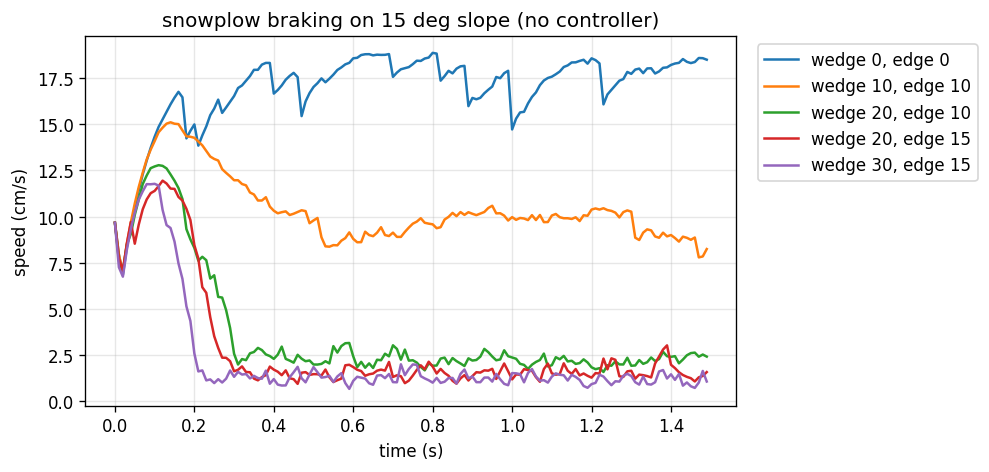
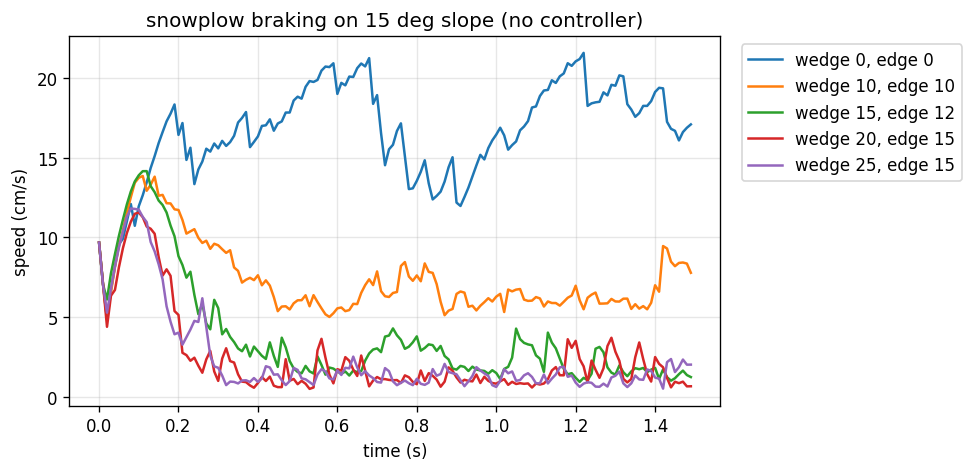
판 0.81cm로 연장(구간별 굽힘 묶기), 평평한 판 기본 횡그립, 1단계 방향 벌점, 플루크 보겐 물리 검사
- ski_plate: OVERHANG_SCALE 3.5(0.43 -> 0.81cm), 조각 길이 ~0.062cm 유지(15조각).
  굽힘/비틀림을 발 구간/팁 돌출부/테일 돌출부로 나눠 묶음
- 길이 스윕: 쐐기 15도 제동 4.8 -> 1.5cm/s, 좌우 판 팁은 20도부터 닿음
- edge_grip: 평평해도 그립 25%(FLAT_GRIP_FRACTION). 없으면 긴 판이 0.4초에 70도 넘게
  돌았다. APPLY_TO 옵션(판 조각은 하중 이동은 크지만 궤적이 혼돈적이라 몸통 유지)
- ski_stance: 판 평행이동(무게중심 이동) IK
- pflugbogen_test: 쐐기 + 무게중심 좌우 이동 -> 옆 이동으로 턴 방향 판정
- rl_task SpeedControlEnv: 몸 요각 벌점, 70도 넘으면 종료(가로 서기 금지)
- play: 쐐기 표 최대 20도

diff --git a/flyski_sim/ski_plate.py b/flyski_sim/ski_plate.py
@@ -28,7 +28,12 @@ from flyski_sim.ski_profiles import SkiProfile
 from flyski_sim.ski_stance import compute_ski_stance
 
 SIDES = ('left', 'right')
-N_SEGMENTS = 7            # 홀수 — 가운데 조각이 root.
+N_SEGMENTS = None         # None이면 조각 길이 ~_SEG_LEN_CM이 되게 홀수 개(가운데 조각이 root).
+_SEG_LEN_CM = 0.062
+# 판 길이 = T1~T3 발끝 거리 + OVERHANG_SCALE x 프로파일 길이. T1/T2/T3 세 점이 판을 잡아
+# 휨을 다리가 정하므로(스케이트에 가까움, RESEARCH_NOTES 38번) 발 밖으로 나온 팁/테일이
+# 자유롭게 휘도록 길게 한다. 쐐기에서 좌우 판 팁이 닿지 않는 범위에서 고름.
+OVERHANG_SCALE = 3.5         # 판 0.43 -> 0.81cm(all_mountain). 길이 스윕은 38번.
 HALF_THICKNESS_CM = 0.004
 BINDING_HEIGHT_CM = 0.01
 _THETA_MAX_EXTRA_DEG = 8.0  # stiffness=0일 때 추가로 허용하는 휨각.
@@ -107,7 +112,7 @@ def plate_sidecut_radius_cm(profile: SkiProfile, length_cm: float) -> float:
 
 
 def attach_side_plates(walker, profile: SkiProfile,
-                       n_segments: int = N_SEGMENTS) -> dict[str, SkiUnit]:
+                       n_segments: int | None = N_SEGMENTS) -> dict[str, SkiUnit]:
     """walker의 좌/우 다리 3개씩에 휘는 스키 플레이트를 하나씩 붙인다."""
     info, R_th, x_th, weight = _rest_pose_info(walker, compute_ski_stance(walker))
     model = walker.mjcf_model
@@ -132,7 +137,9 @@ def attach_side_plates(walker, profile: SkiProfile,
         center_th = np.array([mid[0], mid[1],
                               tip_z - BINDING_HEIGHT_CM - HALF_THICKNESS_CM])
 
-        length = span + profile.length_cm
+        length = span + OVERHANG_SCALE * profile.length_cm
+        if n_segments is None:
+            n_segments = 2 * max(int(round(length / _SEG_LEN_CM / 2)), 1) + 1
         seg_len = length / n_segments
         m = n_segments // 2
         half_w_load = 0.5 * weight                           # 판 하나가 받는 하중.
@@ -235,20 +242,28 @@ def attach_side_plates(walker, profile: SkiProfile,
                 parent = body
 
         # 볼록성: 힌지가 제각각 꺾이면 판이 지그재그(비볼록)가 됐다(평지/플루크/엣징 모두
-        # 스텝의 99~100%, RESEARCH_NOTES 37번). 절반씩 묶어도 플루크에선 T1/T3 발이 팁과
-        # 테일을 서로 반대로 밀어 S자가 됐다. 그래서 판 전체 굽힘/비틀림을 한 값으로 묶어
-        # 곡률(비틀림률)이 일정한 판이 되게 한다. 테일 쪽 힌지는 부모가 +x 쪽이라 같은
-        # 모양에서 각의 부호가 팁 쪽과 반대이고, 캠버 springref도 +/-로 대칭이다.
+        # 스텝의 99~100%, RESEARCH_NOTES 37번). 구간마다 굽힘/비틀림 힌지를 한 값으로
+        # 묶어 구간 안에서는 곡률(비틀림률)이 일정하게 한다.
+        # - 발 구간(T3~T1 발 사이): 한 값. 절반씩 따로 두면 플루크에서 T1/T3가 팁과 테일을
+        #   반대로 밀어 S자가 됐다. 테일 쪽 힌지는 부모가 +x 쪽이라 같은 모양에서 각의
+        #   부호가 팁 쪽과 반대(캠버 springref도 +/- 대칭).
+        # - 팁 돌출부, 테일 돌출부(발 밖): 각각 따로 한 값. 발이 잡지 않는 부분이라 설면
+        #   하중으로 자유롭게 휜다(38번).
+        # 판 구속이 부드러우면(solref 0.002) 판 힌지 관성이 작아 크게 어긋나서 하드하게.
+        foot_step = max(int(round(abs(float((t1['tip_th'] - t2['tip_th']) @ ex)) / seg_len)), 1)
+        hard = dict(solref=(0.0004, 1.), solimp=(0.99, 0.999, 0.001, 0.5, 2.))
         for kind in (('bend', 'twist') if COUPLE_BENDING else ()):
-            leader = chain[(kind, +1)][0]
-            for direction in (+1, -1):
-                for follower in chain[(kind, direction)]:
-                    if follower is leader:
-                        continue
+            groups = [[(j, d) for d in (+1, -1) for j in chain[(kind, d)][:foot_step]]]
+            for d in (+1, -1):
+                over = chain[(kind, d)][foot_step:]
+                if over:
+                    groups.append([(j, +1) for j in over])     # 같은 방향끼리라 부호 같음.
+            for group in groups:
+                leader, lead_sign = group[0]
+                for follower, sign in group[1:]:
                     model.equality.add('joint', name=f'ski_{kind}_couple_{follower.name}',
                                        joint1=follower, joint2=leader,
-                                       polycoef=(0., float(direction), 0., 0., 0.),
-                                       solref=(0.0004, 1.), solimp=(0.99, 0.999, 0.001, 0.5, 2.))
+                                       polycoef=(0., float(sign * lead_sign), 0., 0., 0.), **hard)
 
         def add_binding_post(leg, idx, tip_plate):
             """시각 전용(충돌 없음) 바인딩 기둥: 판 중심선 윗면 -> 발끝. 구속 자체는

diff --git a/flyski_sim/pflugbogen_test.py b/flyski_sim/pflugbogen_test.py
@@ -1,0 +1,79 @@
+# 쐐기 자세에서 무게중심을 한쪽 판으로 옮기면 반대쪽으로 도는지(플루크 보겐) 측정하는 물리 검사
+"""플루크 보겐 물리 검사(RESEARCH_NOTES 38번).
+
+쐐기(snowplow_pose) + 몸을 좌/우로 옮긴 자세를 고정 액션으로 걸고 15° 사면에서 요
+변화를 잰다. 왼쪽 턴은 바깥(오른쪽) 스키에 하중 = 몸을 오른쪽(-y)으로. 컨트롤러 없음.
+모델에 좌향 드리프트가 있어서(38번) 이동 0과의 차이로 판정한다.
+
+    python -m flyski_sim.pflugbogen_test
+"""
+from __future__ import annotations
+
+import mujoco
+import numpy as np
+
+from flyski_sim import snowplow_test
+from flyski_sim.ski_stance import snowplow_pose
+
+WEDGE, EDGE = 15., 12.
+
+
+def run(com_y_cm, seconds=2.0, ramp=0.2):
+    env, task = snowplow_test.build()
+    env.reset()
+    p = env.physics
+    names = env.action_spec().name.split('\t')
+    pose, err = snowplow_pose(task.walker, WEDGE, EDGE, (0., com_y_cm, 0.))
+    off = np.array([pose[n] - task._stance[n] if n in pose else 0. for n in names])
+    th = p.model.name2id('walker/thorax', 'body')
+    ski_side = {p.model.name2id(g.full_identifier, 'geom'): s
+                for s, u in task.skis.items() for g in u.geoms}
+    f6 = np.zeros(6)
+    yaws, share, ys = [], [], []
+    dt = env.control_timestep()
+    for k in range(int(seconds / dt)):
+        env.step(off * min(k * dt / ramp, 1.))
+        R = p.data.xmat[th].reshape(3, 3)
+        yaws.append(np.arctan2(R[1, 0], R[0, 0]))
+        ys.append(float(p.data.xpos[th][1]))
+        if k * dt > ramp:
+            # 판별 하중 = 그 판 조각들이 설면에서 받는 수직력 합(발톱은 판과 등식 구속이라
+            # cfrc_ext로는 판 하중을 못 잰다).
+            f = {'left': 0., 'right': 0.}
+            for i in range(p.data.ncon):
+                c = p.data.contact[i]
+                g = c.geom1 if c.geom1 in ski_side else c.geom2 if c.geom2 in ski_side else None
+                if g is None:
+                    continue
+                mujoco.mj_contactForce(p.model.ptr, p.data.ptr, i, f6)
+                f[ski_side[g]] += max(f6[0], 0.)
+            if f['left'] + f['right'] > 0:
+                share.append(f['right'] / (f['left'] + f['right']))
+    yaws = np.degrees(np.unwrap(yaws))
+    v = p.data.qvel[:2]
+    return dict(com_y_cm=com_y_cm, ik_tip_err_max=round(max(v for k, v in err.items() if not k.endswith('ori')), 4),
+                yaw_change_deg=round(float(yaws[-1] - yaws[int(ramp / dt)]), 1),
+                lateral_cm=round(ys[-1] - ys[int(ramp / dt)], 2),          # + = 왼쪽으로 이동.
+                vel_heading_deg=round(float(np.degrees(np.arctan2(v[1], v[0]))), 1),
+                right_ski_load=round(float(np.mean(share)), 2),
+                speed_end=round(float(np.linalg.norm(p.data.qvel[:2])), 1),
+                upright=bool(p.data.xmat[th].reshape(3, 3)[2, 2] > 0.5))
+
+
+def main():
+    rows = [run(y) for y in (0., -0.02, -0.04, 0.02, 0.04)]
+    for r in rows:
+        print(r, flush=True)
+    # 판정은 몸 방향(요)이 아니라 실제 경로(옆 이동)로. 한쪽 판에 하중이 실리면 그 판의
+    # 그립이 경로를 판이 향한 쪽으로 휘게 하는 동시에 그쪽을 브레이크처럼 잡아 몸을 반대로
+    # 돌리는 모멘트도 만들어서, 요만 보면 판정이 뒤집힐 수 있다.
+    base = rows[0]['lateral_cm']
+    left = [round(r['lateral_cm'] - base, 2) for r in rows if r['com_y_cm'] < 0]   # 몸 오른쪽 -> 왼쪽(+).
+    right = [round(r['lateral_cm'] - base, 2) for r in rows if r['com_y_cm'] > 0]
+    ok = all(v > 0.3 for v in left) and all(v < -0.3 for v in right)
+    print(f'이동 0 대비 옆 이동(cm): 몸 오른쪽 {left}, 몸 왼쪽 {right} -> 바깥 스키 하중으로 반대쪽 턴? {ok}')
+    return ok
+
+
+if __name__ == '__main__':
+    raise SystemExit(0 if main() else 1)

diff --git a/flyski_sim/ski_stance.py b/flyski_sim/ski_stance.py
@@ -102,13 +102,16 @@ def _rot(axis: str, angle: float) -> np.ndarray:
 
 
 def solve_plate_pose(walker, yaw_deg: dict[str, float], roll_deg: dict[str, float],
-                     ori_weight: float = 0.05) -> tuple[dict[str, float], dict[str, float]]:
+                     ori_weight: float = 0.05, shift_cm: dict[str, np.ndarray] | None = None
+                     ) -> tuple[dict[str, float], dict[str, float]]:
     """스탠스에서 판을 T2 발끝 기준으로 요(수직축)/롤(판 축)만큼 돌린 다리 자세를 IK로 구한다.
 
     yaw_deg/roll_deg: {'left': 각, 'right': 각}. 요 +는 반시계(팁이 왼쪽으로), 롤 +는
     오른쪽 엣지가 내려감. 플루크(쐐기)는 left 요 -, right 요 +(팁을 모음), left 롤 +,
     right 롤 -(안쪽 엣지). T1/T3는 발끝 위치만, T2는 발끝 위치 + 발(부츠) 방향까지
     맞춘다(부츠 요/롤 힌지가 단단해서 T2 발이 판과 같이 안 돌면 스프링과 싸움).
+    shift_cm: {'left': (dx, dy, dz)} thorax 좌표계에서 판(세 발끝)을 평행이동. 판을 -d로
+    옮기면 몸(무게중심)이 판 위에서 +d로 옮겨 간 것과 같다(하중 이동, 38번).
     반환: ({관절: 각}, {다리: 발끝 위치 오차 cm, T2는 방향 오차 rad도 'T2_side_ori'}).
     """
     physics = mjcf.Physics.from_mjcf_model(walker.mjcf_model)
@@ -127,12 +130,13 @@ def solve_plate_pose(walker, yaw_deg: dict[str, float], roll_deg: dict[str, floa
     for side in SIDES:
         R_delta = _rot('z', np.deg2rad(yaw_deg[side])) @ _rot('x', np.deg2rad(roll_deg[side]))
         pivot = tips0[f'T2_{side}']
+        shift = np.asarray((shift_cm or {}).get(side, (0., 0., 0.)), dtype=float)
         for leg in LEGS:
             names = [f'{j}_{leg}_{side}' for j in _MAIN_JOINTS]
             jids = [physics.model.name2id(n, 'joint') for n in names]
             qadr = physics.model.jnt_qposadr[jids]
             lo, hi = physics.model.jnt_range[jids].T
-            target = pivot + R_delta @ (tips0[f'{leg}_{side}'] - pivot)
+            target = pivot + shift + R_delta @ (tips0[f'{leg}_{side}'] - pivot)
             bid = physics.model.name2id(f'claw_{leg}_{side}', 'body')
             R_goal = R_delta @ claw_R0[side] if leg == 'T2' else None
 
@@ -160,7 +164,14 @@ def solve_plate_pose(walker, yaw_deg: dict[str, float], roll_deg: dict[str, floa
     return pose, errors
 
 
-def snowplow_pose(walker, wedge_deg: float, edge_deg: float):
-    """플루크(쐐기): 팁을 모으고(각 판 wedge_deg) 안쪽 엣지를 edge_deg만큼 세운 자세."""
+def snowplow_pose(walker, wedge_deg: float, edge_deg: float,
+                  com_shift_cm: tuple[float, float, float] = (0., 0., 0.)):
+    """플루크(쐐기): 팁을 모으고(각 판 wedge_deg) 안쪽 엣지를 edge_deg만큼 세운 자세.
+
+    com_shift_cm: 몸(무게중심)을 판 위에서 옮길 양(thorax 좌표, +y = 왼쪽). 플루크 보겐은
+    바깥 스키 쪽으로 옮긴다(왼쪽 턴 = 오른쪽 스키 쪽 = -y).
+    """
+    shift = -np.asarray(com_shift_cm, dtype=float)
     return solve_plate_pose(walker, {'left': -wedge_deg, 'right': wedge_deg},
-                            {'left': edge_deg, 'right': -edge_deg})
+                            {'left': edge_deg, 'right': -edge_deg},
+                            shift_cm={'left': shift, 'right': shift})

diff --git a/flyski_sim/edge_grip.py b/flyski_sim/edge_grip.py
@@ -37,6 +37,14 @@ PHI1 = np.deg2rad(20.)   # 이 이상이면 그립 최대.
 V0 = 2.0                 # cm/s, 정지마찰을 부드럽게 근사하는 속도 스케일. 0.5면 과도응답이 커서
                          # 예측보다 2~4배 급하게 돌았다(RESEARCH_NOTES 35번).
 N_CAP_BODYWEIGHTS = 2.   # 접촉 하나의 수직력 상한(몸무게 배수).
+# 판이 평평해도(엣지 < PHI0) 주는 기본 횡 그립 비율. 0이면 평평한 스키가 진행 방향으로
+# 정렬되려는 힘이 전혀 없어서, 0.81cm 판에선 폴라인으로 미끄러지면서 몸이 0.4초에 70°
+# 넘게 돌았다(RESEARCH_NOTES 38번). 실제 스키도 옆미끄럼 저항이 활주 마찰보다 크다(가정값).
+FLAT_GRIP_FRACTION = 0.25
+# 그립 힘을 걸 대상: 'segment'(접촉한 판 조각, 실제 하중 경로) 또는 'thorax'(몸통 루트).
+# thorax는 V0=0.5 시절 조각에 걸면 발산해서 택했지만, 옆 힘이 판->다리->몸 하중 경로를
+# 우회해서 사면에서 무게중심을 옮겨도 판 하중이 거의 안 바뀌었다(38번).
+APPLY_TO = 'thorax'
 
 
 class EdgeGrip:
@@ -101,10 +109,12 @@ class EdgeGrip:
             v_t = v - (v @ n) * n
             v_lat = float(v_t @ t)
             snow = self._snow_at(float(c.pos[0]))
-            mu = snow.edge_grip * float(np.clip((phi - PHI0) / (PHI1 - PHI0), 0., 1.))
+            ramp = float(np.clip((phi - PHI0) / (PHI1 - PHI0), 0., 1.))
+            mu = snow.edge_grip * (FLAT_GRIP_FRACTION + (1. - FLAT_GRIP_FRACTION) * ramp)
             if self._enabled and mu > 0. and N > 0.:
                 f = -mu * N * np.tanh(v_lat / V0) * t
-                mujoco.mj_applyFT(m, d, f, np.zeros(3), c.pos, self._target, d.qfrc_applied)
+                target = body if APPLY_TO == 'segment' else self._target
+                mujoco.mj_applyFT(m, d, f, np.zeros(3), c.pos, target, d.qfrc_applied)
             a = self._acc[side]
             a['n'] += 1
             a['lat'] += abs(v_lat)

diff --git a/flyski_sim/rl_task.py b/flyski_sim/rl_task.py
@@ -276,6 +276,8 @@ class SkiCourseEnv(gym.Env):
 SPEED_WEIGHTS = dict(
     track=1.0,           # exp(-((속력 - 명령)/SPEED_SIGMA)^2).
     lateral=-0.02,       # 옆(y) 속도 cm/s 당. 폴라인에서 크게 벗어나지 않게.
+    heading=-0.5,        # (1 - cos 몸 요각) 당. speed1은 몸을 사면에 가로로 돌려 속도를
+                         # 조절했다(플루크가 아님, 37번). 폴라인을 보고 쐐기로 서게 한다.
     alive=0.05,
     ctrl=-0.01,
     fall=-20.,           # PPO 1회차는 -5가 카빙 보상에 묻혀 넘어짐이 ~70%였다.
@@ -283,6 +285,7 @@ SPEED_WEIGHTS = dict(
 SPEED_SIGMA = 4.               # cm/s
 SPEED_COMMANDS = (0., 5., 10., 15.)
 SPEED_HOLD = (0.6, 1.2)        # 명령 유지 시간(s) 범위.
+MAX_YAW_DEG = 70.              # 몸이 폴라인에서 이만큼 넘게 돌면 종료(가로 서기 금지).
 
 
 class SpeedControlEnv(SkiCourseEnv):
@@ -318,7 +321,18 @@ class SpeedControlEnv(SkiCourseEnv):
         self._stats['track'] += abs(err)
         return dict(track=w['track'] * float(np.exp(-(err / SPEED_SIGMA) ** 2)),
                     lateral=w['lateral'] * abs(float(v[1])),
+                    heading=w['heading'] * (1. - np.cos(self._yaw(p))),
                     alive=w['alive'], ctrl=w['ctrl'] * float(np.mean(a ** 2)))
+
+    def _yaw(self, p):
+        R = p.data.xmat[self._th].reshape(3, 3)
+        return float(np.arctan2(R[1, 0], R[0, 0]))       # 폴라인(+x) 대비 몸 요.
+
+    def _termination(self, p):
+        reason = super()._termination(p)
+        if reason is None and abs(self._yaw(p)) > np.deg2rad(MAX_YAW_DEG):
+            return 'traverse'
+        return reason
 
 
 ENVS = {'course': SkiCourseEnv, 'speed': SpeedControlEnv}

diff --git a/flyski_sim/plate_shape_test.py b/flyski_sim/plate_shape_test.py
@@ -27,6 +27,14 @@ def _hinges(p, task, side):
     return [p.model.name2id(j.full_identifier, 'joint') for j in names]
 
 
+def _foot_step(p, task, side):
+    """T1 connect 앵커가 붙은 조각이 가운데서 몇 번째인지(발 구간 반길이, 조각 수)."""
+    sid = p.model.name2id(f'walker/ski_bind_plate_T1_{side}', 'site')
+    seg = p.model.id2name(p.model.site_bodyid[sid], 'body')
+    m = len(task.skis[side].bodies) // 2
+    return int(seg.split('_s')[-1]) - m
+
+
 def _shape(p, task, side, jids):
     m = p.model
     dev = np.array([p.data.qpos[m.jnt_qposadr[j]] - m.qpos_spring[m.jnt_qposadr[j]] for j in jids])
@@ -34,8 +42,15 @@ def _shape(p, task, side, jids):
     # 있어서(체인이 가운데서 양쪽으로 뻗음) 같은 모양이면 같은 부호가 되게 맞춘다.
     n = len(dev)
     signed = np.where(np.arange(n) < n // 2, -dev, dev)
-    big = signed[np.abs(signed) > THRESH]
-    zig = bool(len(big) > 1 and np.any(np.sign(big[1:]) != np.sign(big[:-1])))
+    # 구간(테일 돌출부 / 발 구간 / 팁 돌출부)마다 따로 본다. 돌출부는 발 구간과 다르게
+    # 휘는 게 정상이다(ski_plate 구간별 묶기, 38번).
+    k = _foot_step(p, task, side)
+    h = n // 2
+    zones = [signed[:max(h - k, 0)], signed[max(h - k, 0):h + k], signed[h + k:]]
+    zig = False
+    for zone in zones:
+        big = zone[np.abs(zone) > THRESH]
+        zig |= bool(len(big) > 1 and np.any(np.sign(big[1:]) != np.sign(big[:-1])))
     bodies = sorted(task.skis[side].bodies, key=lambda b: int(b.name.split('_s')[-1]))
     pts = np.array([p.bind(b).xpos for b in bodies])
     R = p.bind(task.skis[side].root_body).xmat.reshape(3, 3)

diff --git a/flyski_sim/play.py b/flyski_sim/play.py
@@ -20,8 +20,9 @@ import numpy as np
 from flyski_sim.rl_task import ENVS
 from flyski_sim.ski_stance import snowplow_pose
 
-# 속도 명령(cm/s) -> (쐐기°, 안쪽 엣지°). snowplow_test 측정값에서 고른 표.
-SNOWPLOW_TABLE = ((0., 30., 15.), (5., 18., 12.), (10., 10., 10.), (15., 0., 0.))
+# 속도 명령(cm/s) -> (쐐기°, 안쪽 엣지°). snowplow_test 측정값에서 고른 표. 판이 0.81cm로
+# 길어져(38번) 쐐기 20°부터 좌우 판 팁이 닿으므로 최대 20°.
+SNOWPLOW_TABLE = ((0., 20., 15.), (5., 12., 12.), (10., 7., 8.), (15., 0., 0.))
 
 
 def snowplow_controller(env):

diff --git a/flyski_sim/snowplow_test.py b/flyski_sim/snowplow_test.py
@@ -121,8 +121,8 @@ def main():
     if args.gif:
         os.makedirs(OUT_DIR, exist_ok=True)
     rows = []
-    for wedge, edge in ((0., 0.), (10., 10.), (20., 10.), (20., 15.), (30., 15.)):
-        frames = [] if args.gif and (wedge, edge) in ((0., 0.), (20., 15.)) else None
+    for wedge, edge in ((0., 0.), (10., 10.), (15., 12.), (20., 15.), (25., 15.)):
+        frames = [] if args.gif and (wedge, edge) in ((0., 0.), (15., 12.)) else None
         r = run(wedge, edge, frames=frames)
         rows.append(r)
         print({k: v for k, v in r.items() if not k.startswith('_')}, flush=True)
